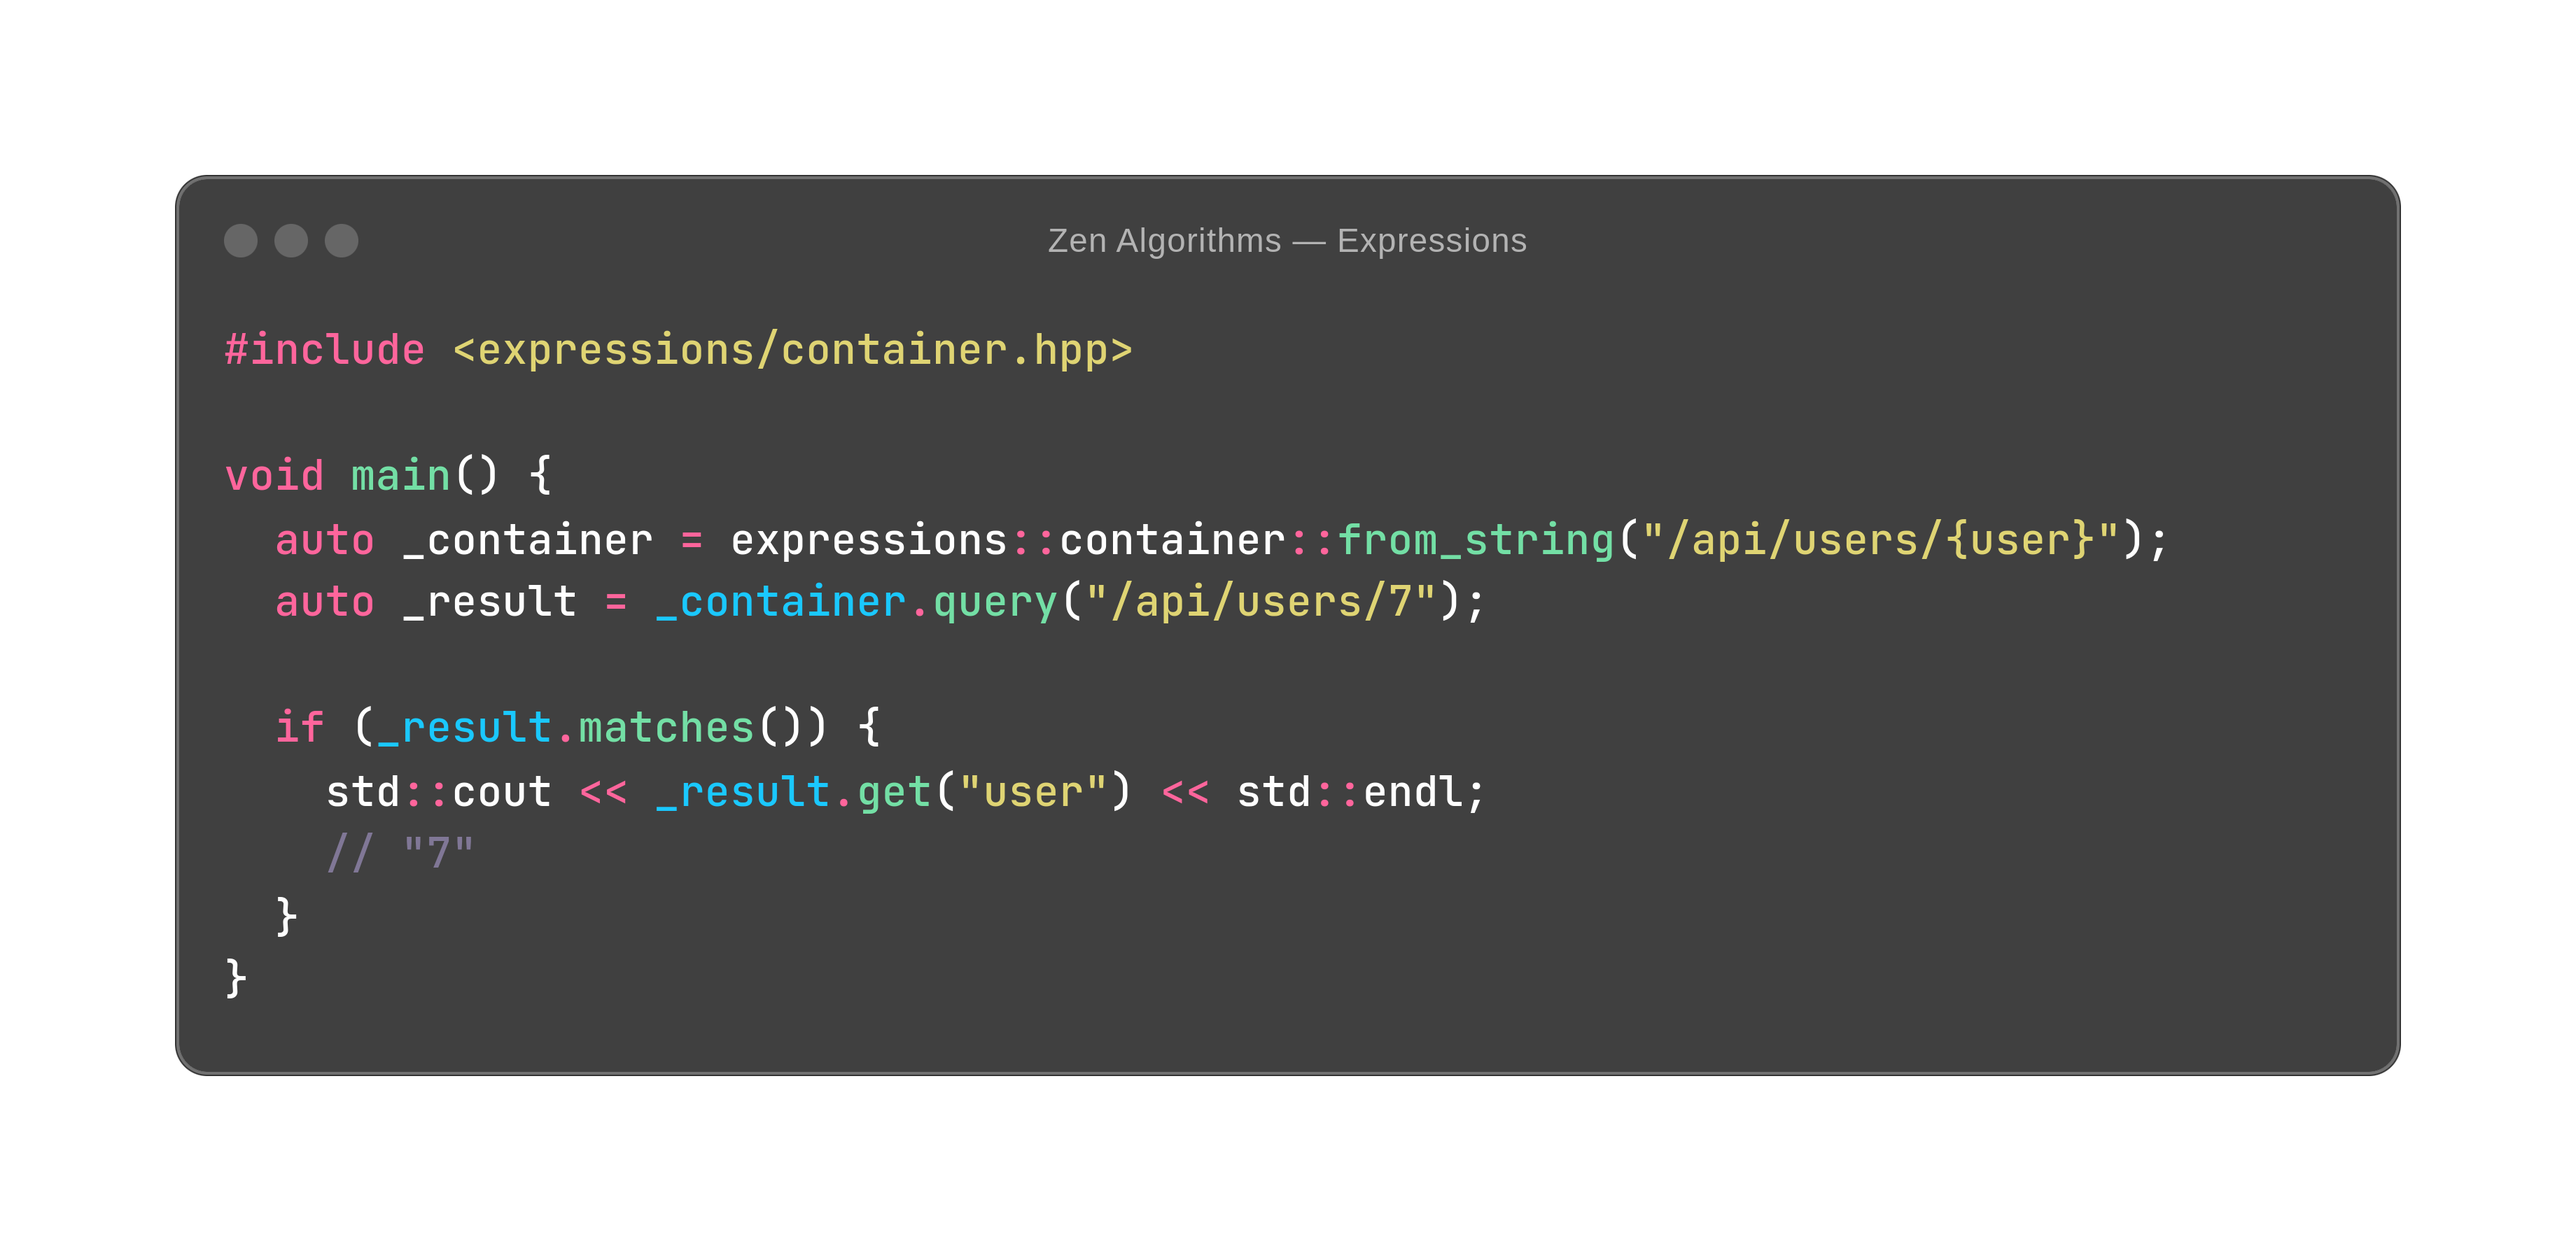
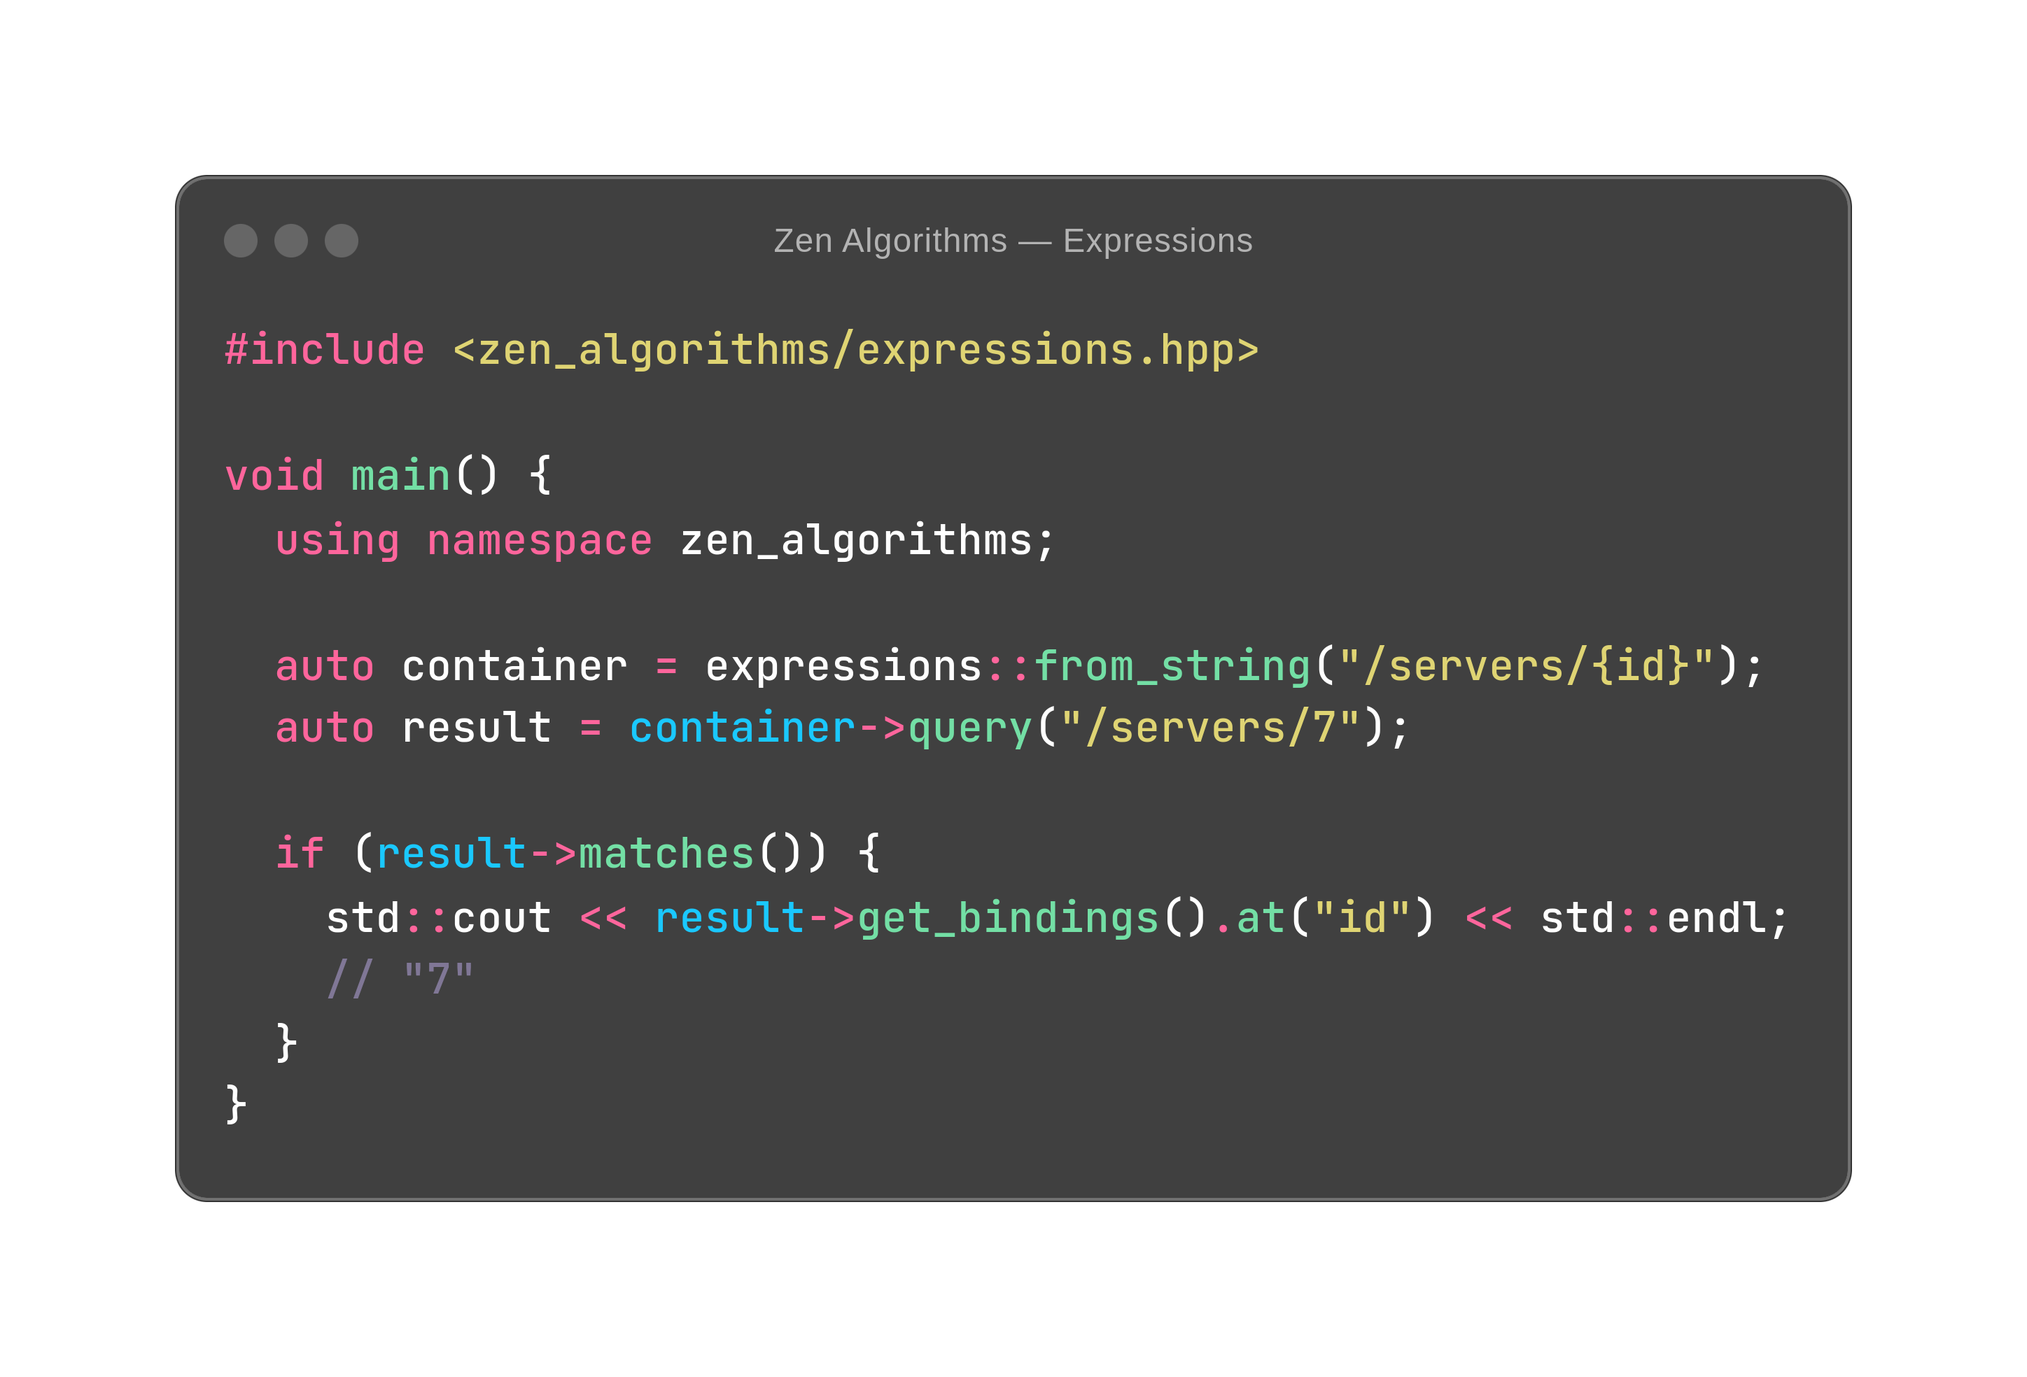
Stable release added.

Changed region(s): [[0.0622, 0.123, 0.9323, 0.8921]]

diff --git a/lib/headers/zen_algorithms/expressions.hpp b/lib/headers/zen_algorithms/expressions.hpp
@@ -1,0 +1,90 @@
+#pragma once
+
+#include <string>
+#include <utility>
+#include <vector>
+#include <memory>
+#include <unordered_map>
+#include <regex>
+
+namespace zen_algorithms::expressions {
+
+    class expression_result : public std::enable_shared_from_this<expression_result> {
+        bool matches_;
+        std::unordered_map<std::string, std::string> bindings_;
+
+        public:
+        expression_result(const bool matches, const std::unordered_map<std::string, std::string> & bindings) : matches_(matches), bindings_(bindings) {}
+
+        bool matches() const { return matches_; }
+        std::unordered_map<std::string, std::string> get_bindings() const { return bindings_; }
+
+        std::string get(const std::string &name) const {
+            if (bindings_.contains(name))
+                return bindings_.at(name);
+            throw std::runtime_error("The provided argument doesn't exists");
+        }
+    };
+
+    class expression : public std::enable_shared_from_this<expression> {
+        std::string regex_;
+        std::vector<std::string> arguments_;
+
+        public:
+
+        expression(std::string regex, const std::vector<std::string> & arguments) : regex_(std::move(regex)), arguments_(arguments) {}
+
+        std::vector<std::string> get_arguments() const { return arguments_; }
+        std::string get_regex() const { return regex_; }
+
+        std::shared_ptr<expression_result> query(const std::string &input) const {
+            std::unordered_map<std::string, std::string> _bindings;
+            const std::regex _pattern(regex_);
+            bool _matches = false;
+            if (std::smatch _match; std::regex_match(input, _match, _pattern)) {
+                _matches = true;
+                auto _iterator = _match.begin();
+                ++_iterator;
+                for (auto &_key: arguments_) {
+                    _bindings[_key] = *_iterator;
+                    ++_iterator;
+                }
+            }
+            return std::make_shared<expression_result>(_matches, _bindings);
+        }
+    };
+
+    static std::shared_ptr<expression> from_string(const std::string &input) {
+        std::size_t _open = input.find('{');
+        std::size_t _close = input.find('}');
+        std::size_t _position = 0;
+
+        std::vector<std::string> _arguments;
+        std::string _regex;
+
+        if (_open == std::string::npos && _close == std::string::npos)
+            return std::make_shared<expression>(input, _arguments);
+
+        while (_open != std::string::npos && _close != std::string::npos) {
+            _regex.append(input.substr(_position, _open - _position));
+            std::string _value{input.substr(_open + 1, _close - _open - 1)};
+
+            if (std::find(_arguments.begin(), _arguments.end(), _value) != _arguments.end())
+                throw std::runtime_error("The provided input contains repeated arguments.");
+
+            _regex.append(R"(([a-zA-Z0-9\-_]+))");
+            _arguments.emplace_back(_value);
+
+            _position = _close + 1;
+            _open = input.find('{', _close);
+            _close = input.find('}', _open);
+        }
+
+        if (_position != input.size())
+            _regex.append(input.substr(_position, input.size() - _position));
+
+
+        return std::make_shared<expression>(_regex, _arguments);
+    }
+
+}

diff --git a/tests/implementation_test.cc b/tests/implementation_test.cc
@@ -1,27 +1,28 @@
 #include <gtest/gtest.h>
-#include <expressions/container.hpp>
+#include <zen_algorithms/expressions.hpp>
 
 TEST(Expressions, Assertions) {
-    using namespace expressions;
+    using namespace zen_algorithms;
 
-    const auto _non_empty_expression = container::from_string("/users/{user}/details");
+    const auto _expression = expressions::from_string("/users/{user}/details");
 
-    ASSERT_FALSE(_non_empty_expression.get_arguments().empty());
-    ASSERT_EQ(_non_empty_expression.get_arguments().size(), 1);
-    ASSERT_EQ(_non_empty_expression.get_arguments().at(0), "user");
+    ASSERT_FALSE(_expression->get_arguments().empty());
+    ASSERT_EQ(_expression->get_arguments().size(), 1);
+    ASSERT_EQ(_expression->get_arguments().at(0), "user");
 
-    const auto _empty_expression = container::from_string("/ping");
-    ASSERT_TRUE(_empty_expression.get_arguments().empty());
-    ASSERT_EQ(_empty_expression.get_regex(), "/ping");
 
-    const auto _non_empty_string_expression_result = _non_empty_expression.query("/users/80bdc6d1-524e-411a-b316-976a65a3ed3c/details");
+    const auto _empty_expression = expressions::from_string("/ping");
+    ASSERT_TRUE(_empty_expression->get_arguments().empty());
+    ASSERT_EQ(_empty_expression->get_regex(), "/ping");
 
-    ASSERT_TRUE(_non_empty_string_expression_result.matches());
-    ASSERT_FALSE(_non_empty_string_expression_result.bindings().empty());
-    ASSERT_EQ(_non_empty_string_expression_result.get("user"), "80bdc6d1-524e-411a-b316-976a65a3ed3c");
+    const auto _non_empty_string_expression_result = _expression->query("/users/80bdc6d1-524e-411a-b316-976a65a3ed3c/details");
 
-    const auto _non_empty_integer_expression_result = _non_empty_expression.query("/users/1337/details");
-    ASSERT_TRUE(_non_empty_integer_expression_result.matches());
-    ASSERT_FALSE(_non_empty_integer_expression_result.bindings().empty());
-    ASSERT_EQ(_non_empty_integer_expression_result.get("user"), "1337");
+    ASSERT_TRUE(_non_empty_string_expression_result->matches());
+    ASSERT_FALSE(_non_empty_string_expression_result->get_bindings().empty());
+    ASSERT_EQ(_non_empty_string_expression_result->get("user"), "80bdc6d1-524e-411a-b316-976a65a3ed3c");
+
+    const auto _non_empty_integer_expression_result = _expression->query("/users/1337/details");
+    ASSERT_TRUE(_non_empty_integer_expression_result->matches());
+    ASSERT_FALSE(_non_empty_integer_expression_result->get_bindings().empty());
+    ASSERT_EQ(_non_empty_integer_expression_result->get("user"), "1337");
 }

diff --git a/lib/sources/expressions.cpp b/lib/sources/expressions.cpp
@@ -1,0 +1,3 @@
+#include <zen_algorithms/expressions.hpp>
+
+namespace zen_algorithms::expressions { }
